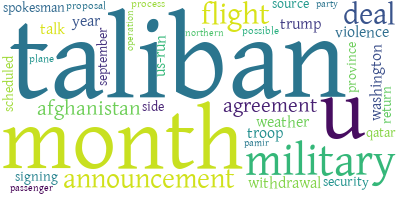
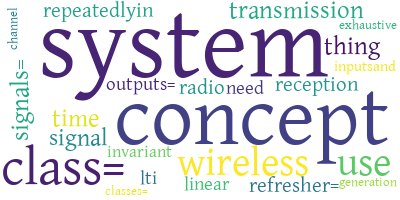
pdf issue fixed

diff --git a/templates/generate.html b/templates/generate.html
@@ -1,4 +1,4 @@
-{% load static from staticfiles %}
+{% load static%}
 
 <!DOCTYPE html>
 <html>
@@ -14,20 +14,22 @@
 <body>
     <!-- second section start -->
     <section class="section">
-        <div class="container">
-                <p style="text-align:left;"><img src="{% static 'wordandkeys.jpg' %}" alt="wordandkeys.jpg" width="150px"></p>
+        <div class="container column is-half is-offset-one-quarter">
+                <!-- <p style="text-align:left;"><img src="{% static 'wordandkeys.jpg' %}" alt="wordandkeys.jpg" width="150px"></p> -->
                 <br><br>
             <div class="columns">
                 <!-- first column -->
                 <div class="column is-narrow">
-                    <div class="box" style="width: 900px;">
+                    <div class="box" >
                         <!-- blog text -->
                         <div class="field">
-                            <label class="label">Text</label>
+                            <p class="title is-4">Upload File</p>
+                            <!-- <h6 class="subtitle is-6">eg. pdf, doc, image</h6> -->
+                            <br>
                             <div class="control">
                                 <form method="POST" enctype="multipart/form-data">
                                 {% csrf_token %}
-                                    <textarea class="textarea" placeholder="Write your text here.." rows="10" name="blog"></textarea>
+                                    <!-- <textarea class="textarea" placeholder="Write your text here.." rows="10" name="blog"></textarea> -->
                             </div>
                         </div>
 

diff --git a/generator/views.py b/generator/views.py
@@ -14,7 +14,16 @@ import pytesseract
 
 import os
 import sys
+
+from django.core.files.storage import FileSystemStorage
 # Create your views here.
+
+# def upload(request):
+#     if request.method == 'POST':
+#         uploaded_file = request.FILES['document']
+#         fs = FileSystemStorage()
+#         fs.save(uploaded_file.name, uploaded_file)
+#     return render(request, 'html')
 
 def generator(request):
     if request.method == 'POST':
@@ -25,12 +34,14 @@ def generator(request):
         else:
             uploaded_file = request.FILES['document']
             print(request.FILES['document'])
+            fs = FileSystemStorage()
+            fs.save(uploaded_file.name, uploaded_file)
 
             ftype = filetype(uploaded_file.name)
             print("[INFO] Filetype: ", ftype)
             
             if ftype == "pdf":
-                text = textParse.from_pdf(uploaded_file)
+                text = textParse.from_pdf(os.path.join('documents',str(uploaded_file)))
             if ftype == "doc":
                 text = textParse.from_doc(uploaded_file)
             if ftype == "img":
@@ -51,8 +62,8 @@ def generator(request):
             for x in kw:
                 hmap[x[0]]=x[1]
 
-            # wordart = uploaded_file.name.split('.')[0] +'.png'
-            wordart = 'wordart.png'
+            wordart = uploaded_file.name.split('.')[0] +'.png'
+            # wordart = 'wordart.png'
             wordcloud = WordCloud(font_path='generator/functions/kalpurush.ttf',min_font_size = 10, background_color="white").generate_from_frequencies(hmap)
             wordcloud.to_file('wordarts/'+ wordart)
             print(keys)

diff --git a/generator/functions/textParse.py b/generator/functions/textParse.py
@@ -4,7 +4,7 @@ from tika import parser
 import docx2txt
 import os
 
-pytesseract.pytesseract.tesseract_cmd = r"C:\Program Files\Tesseract-OCR\tesseract.exe"
+# pytesseract.pytesseract.tesseract_cmd = r"C:\Program Files\Tesseract-OCR\tesseract.exe"
 # os.environ["TIKA_SERVER_JAR"] = 'generator/functions/tika-server.jar'
 # TIKA_SERVER_JAR="file:////tika-server.jar"
 

diff --git a/generator/urls.py b/generator/urls.py
@@ -1,8 +1,15 @@
 from django.urls import path
 from . import views
 
+from django.conf import settings
+from django.conf.urls.static import static
+
 
 urlpatterns = [
     path('', views.generator, name='generator'),
 
 ]
+
+
+if settings.DEBUG:
+    urlpatterns += static(settings.MEDIA_URL, document_root=settings.MEDIA_ROOT)

diff --git a/wordart_keywords/settings.py b/wordart_keywords/settings.py
@@ -126,3 +126,5 @@ STATICFILES_DIRS = (
     os.path.join(BASE_DIR, 'wordarts/'),
 )
 
+MEDIA_ROOT = os.path.join(BASE_DIR, 'documents')
+MEDIA_URL = '/documents/'
